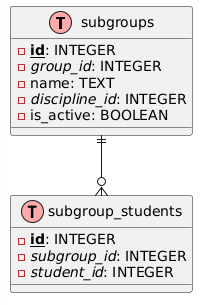
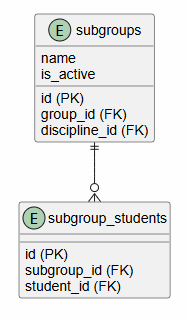
.

Changed region(s): [[0.0266, 0.0, 0.984, 0.9738]]

diff --git a/S8/models.py b/S8/models.py
@@ -66,7 +66,6 @@ def init_db():
             db.close()
 
 
-
 if __name__ == '__main__':
     print("=" * 50)
     print("Инициализация БД для сервиса подгрупп (Политехнический колледж Кострома)")

diff --git a/S8/doc.md b/S8/doc.md
@@ -70,10 +70,8 @@
 | Параметр | Тип |
 |----------|-----|
 | deleted | Булевый |
-| id | Целое |
-| is_active | Булевый |
 
-**Пример:** `{"deleted": True, "id": 1, "is_active": False}`
+**Пример:** `{"deleted": true}`
 
 ---
 
@@ -116,57 +114,6 @@
 | is_active | Булевый |
 
 **Важно:** возвращаются только подгруппы с `is_active = True`
-
----
-
-## 6. Добавить студента в подгруппу
-
-**POST** `/subgroup-students`
-
-**Вход:**
-
-| Параметр | Обязательность | Тип | Ограничение |
-|----------|---------------|-----|-------------|
-| subgroup_id | Обязательно | Целое | Внешний ключ к подгруппе |
-| student_id | Обязательно | Целое | Внешний ключ к студенту |
-
-**Уникальная комбинация:** `(subgroup_id, student_id)`
-
-**Выход:**
-
-| Параметр | Тип |
-|----------|-----|
-| id | Целое |
-| subgroup_id | Целое |
-| student_id | Целое |
-
----
-
-## 7. Удалить студента из подгруппы
-
-**DELETE** `/subgroup-students/{id}`
-
-**Возвращает:**
-
-| Параметр | Тип |
-|----------|-----|
-| deleted | Булевый |
-
-**Пример:** `{"deleted": True}`
-
----
-
-## 8. Получить всех студентов подгруппы
-
-**GET** `/subgroups/{id}/students`
-
-**Выход (массив):**
-
-| Параметр | Тип |
-|----------|-----|
-| id | Целое |
-| subgroup_id | Целое |
-| student_id | Целое |
 
 ---
 